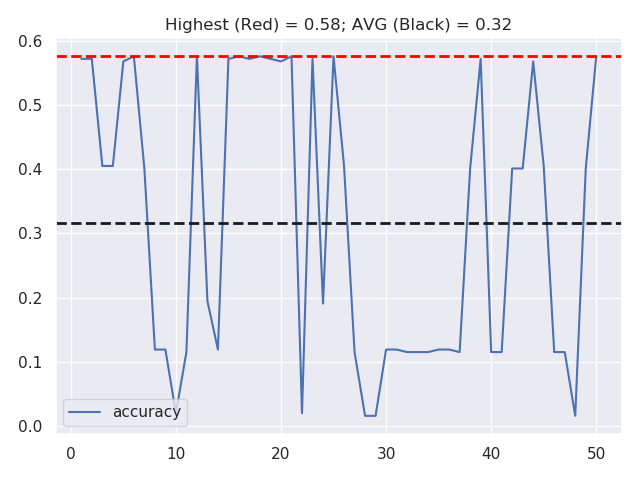
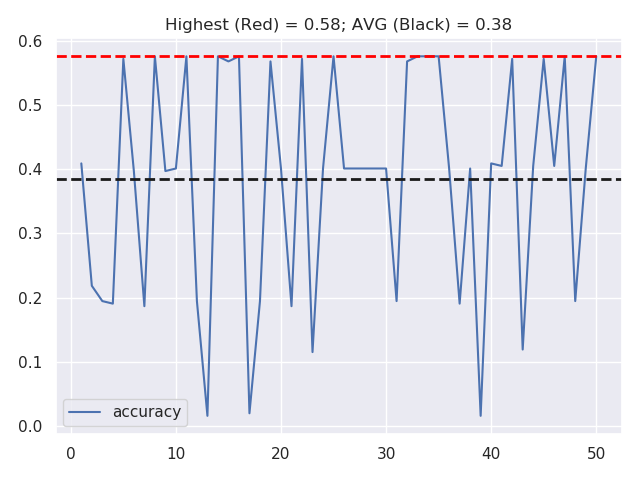
updates: - finished kmeans with each different analysis

diff --git a/hw6-kmeans-n_clusters.py b/hw6-kmeans-n_clusters.py
@@ -1,0 +1,74 @@
+from hw5.libs.common.dataset import Dataset
+from hw5.libs.common.util import int_to_tuple, save_to_csv, get_unique_list, filter_dataset, get_selected_digits
+import matplotlib.pyplot as plt
+from sklearn.decomposition import PCA
+
+# import matplotlib.pyplot as plt
+import seaborn as sns; sns.set()  # for plot styling
+import numpy as np
+
+# from sklearn.cluster import KMeans
+from hw6.libs.algo.kmeans import MyKMeans
+
+if __name__ == '__main__':
+    # dataset = Dataset(train_data=1000, test_data=100)
+    # dataset = Dataset(train_data=20, test_data=10)
+    # dataset = Dataset(train_data=40, test_data=10)
+    # dataset = Dataset(train_data=80, test_data=20)
+    dataset = Dataset(train_data=800, test_data=200)
+    # dataset = Dataset()
+    # X_train, Y_train, X_test, Y_test = dataset.get_dataset()
+    init_X_train, init_Y_train, _, _ = dataset.get_dataset()
+    acc_scores = [] # ONLY collect the highest accuracy!
+
+    # Simulate clustering in K times.
+    K = 50
+    # K = 5
+    ks = int_to_tuple(K) # used to plot the results
+
+    # simulate different number of clusters
+    # n_clusters = [2, 3, 4, 5, 6, 7, 8, 9, 10] # from n=2 ~ n=10 (max)
+    n_clusters = [2, 3] # from n=2 ~ n=10 (max)
+
+    # Start simulation ...
+    kmeans, reduced_X_train, y_kmeans = None, None, None
+    for i in range(len(n_clusters)):
+        selected_digits = get_selected_digits(n_clusters[i])
+        X_train, Y_train = filter_dataset(selected_digits, init_X_train, init_Y_train)
+
+        # Used for visualization only
+        pca = PCA(n_components=2, whiten=False)
+        reduced_X_train = pca.fit_transform(X_train)
+
+        unique_labels = get_unique_list(Y_train)
+        kmeans = MyKMeans(n_clusters=len(unique_labels))  # n_clusters = total number of unique digits (labels)
+
+        # Start KMeans: Sklearn
+        highest_acc = 0.0
+        for j in range(K):
+            kmeans.fit(X_train)
+            y_kmeans = kmeans.predict(X_train)
+            accuracy = kmeans.eval_acc(y_kmeans, Y_train) * 100
+            # acc_scores.append(accuracy)
+            highest_acc = accuracy if accuracy > highest_acc else highest_acc
+
+        str_hacc = str(round(highest_acc, 2))
+        print(" >>> highest_acc of n_clusters[%s] = %s " % (str(n_clusters[i]), str_hacc))
+        acc_scores.append(round(highest_acc, 2))
+
+    fig = plt.figure()
+    objects = tuple([("D=" + str(n)) for n in n_clusters])
+    y_pos = np.arange(len(objects))
+    plt.bar(y_pos, acc_scores, align='center', alpha=0.5)
+    plt.xticks(y_pos, objects)
+    plt.ylabel('Accuracy (%)')
+    plt.xlabel('Digit (D)')
+    plt.title('Eval. with diff. n_clusters; Dataset size = %s' % str(len(Y_train)))
+    plt.show()
+    fig.savefig('hw6/results/result-kmeans-n_clusters.png', dpi=fig.dpi)
+
+    # # Plt results
+    centers = kmeans.cluster_centers_()
+    pca_center = PCA(n_components=2, whiten=False)
+    reduced_centers = pca_center.fit_transform(centers)
+    kmeans.visualize(reduced_X_train, Y_train, y_kmeans, reduced_centers, "result-kmeans-x_clusters")

diff --git a/hw6/libs/algo/kmeans.py b/hw6/libs/algo/kmeans.py
@@ -25,7 +25,7 @@ class MyKMeans:
         accuracy = np.sum(prob == Y_test).astype(float) / len(Y_test)
         return accuracy
 
-    def visualize(self, reduced_X_train, new_Y_train, y_kmeans, reduced_centers):
+    def visualize(self, reduced_X_train, new_Y_train, y_kmeans, reduced_centers, fname="result-kmeans"):
 
         fig = plt.figure()
         plt.scatter(reduced_X_train[:, 0], reduced_X_train[:, 1], c=new_Y_train, s=100, cmap='inferno')
@@ -37,4 +37,4 @@ class MyKMeans:
         plt.scatter(reduced_X_train[:, 0], reduced_X_train[:, 1], c=y_kmeans, s=50, cmap='viridis')
         plt.scatter(reduced_centers[:, 0], reduced_centers[:, 1], c='red', s=200, alpha=0.5)
         plt.show()
-        fig.savefig('hw6/results/result-kmeans.png', dpi=fig.dpi)
+        fig.savefig('hw6/results/%s.png' % fname, dpi=fig.dpi)

diff --git a/hw6-kmeans-acc.py b/hw6-kmeans-acc.py
@@ -17,9 +17,8 @@ if __name__ == '__main__':
     # dataset = Dataset(train_data=80, test_data=20)
     dataset = Dataset(train_data=800, test_data=200)
     # dataset = Dataset()
-    X_train, Y_train, X_test, Y_test = dataset.get_dataset()
+    X_train, Y_train, _, _ = dataset.get_dataset()
     acc_scores = []
-    # stored_accuracy = [0, 0]  # [<acc>, <k-th>
 
     # Simulate clustering in K times.
     K = 50

diff --git a/hw5/libs/common/util.py b/hw5/libs/common/util.py
@@ -45,3 +45,10 @@ def filter_dataset(selected_digits, X_train, Y_train):
             new_X_train.append(X_train[i])
             new_Y_train.append(Y_train[i])
     return new_X_train, new_Y_train
+
+# Available Digit = {0, 1, 2, ..., 10}; MAX(n_clusters) = 10
+def get_selected_digits(n_clusters):
+    digits = []
+    for i in range(n_clusters):
+        digits.append(i)
+    return digits
